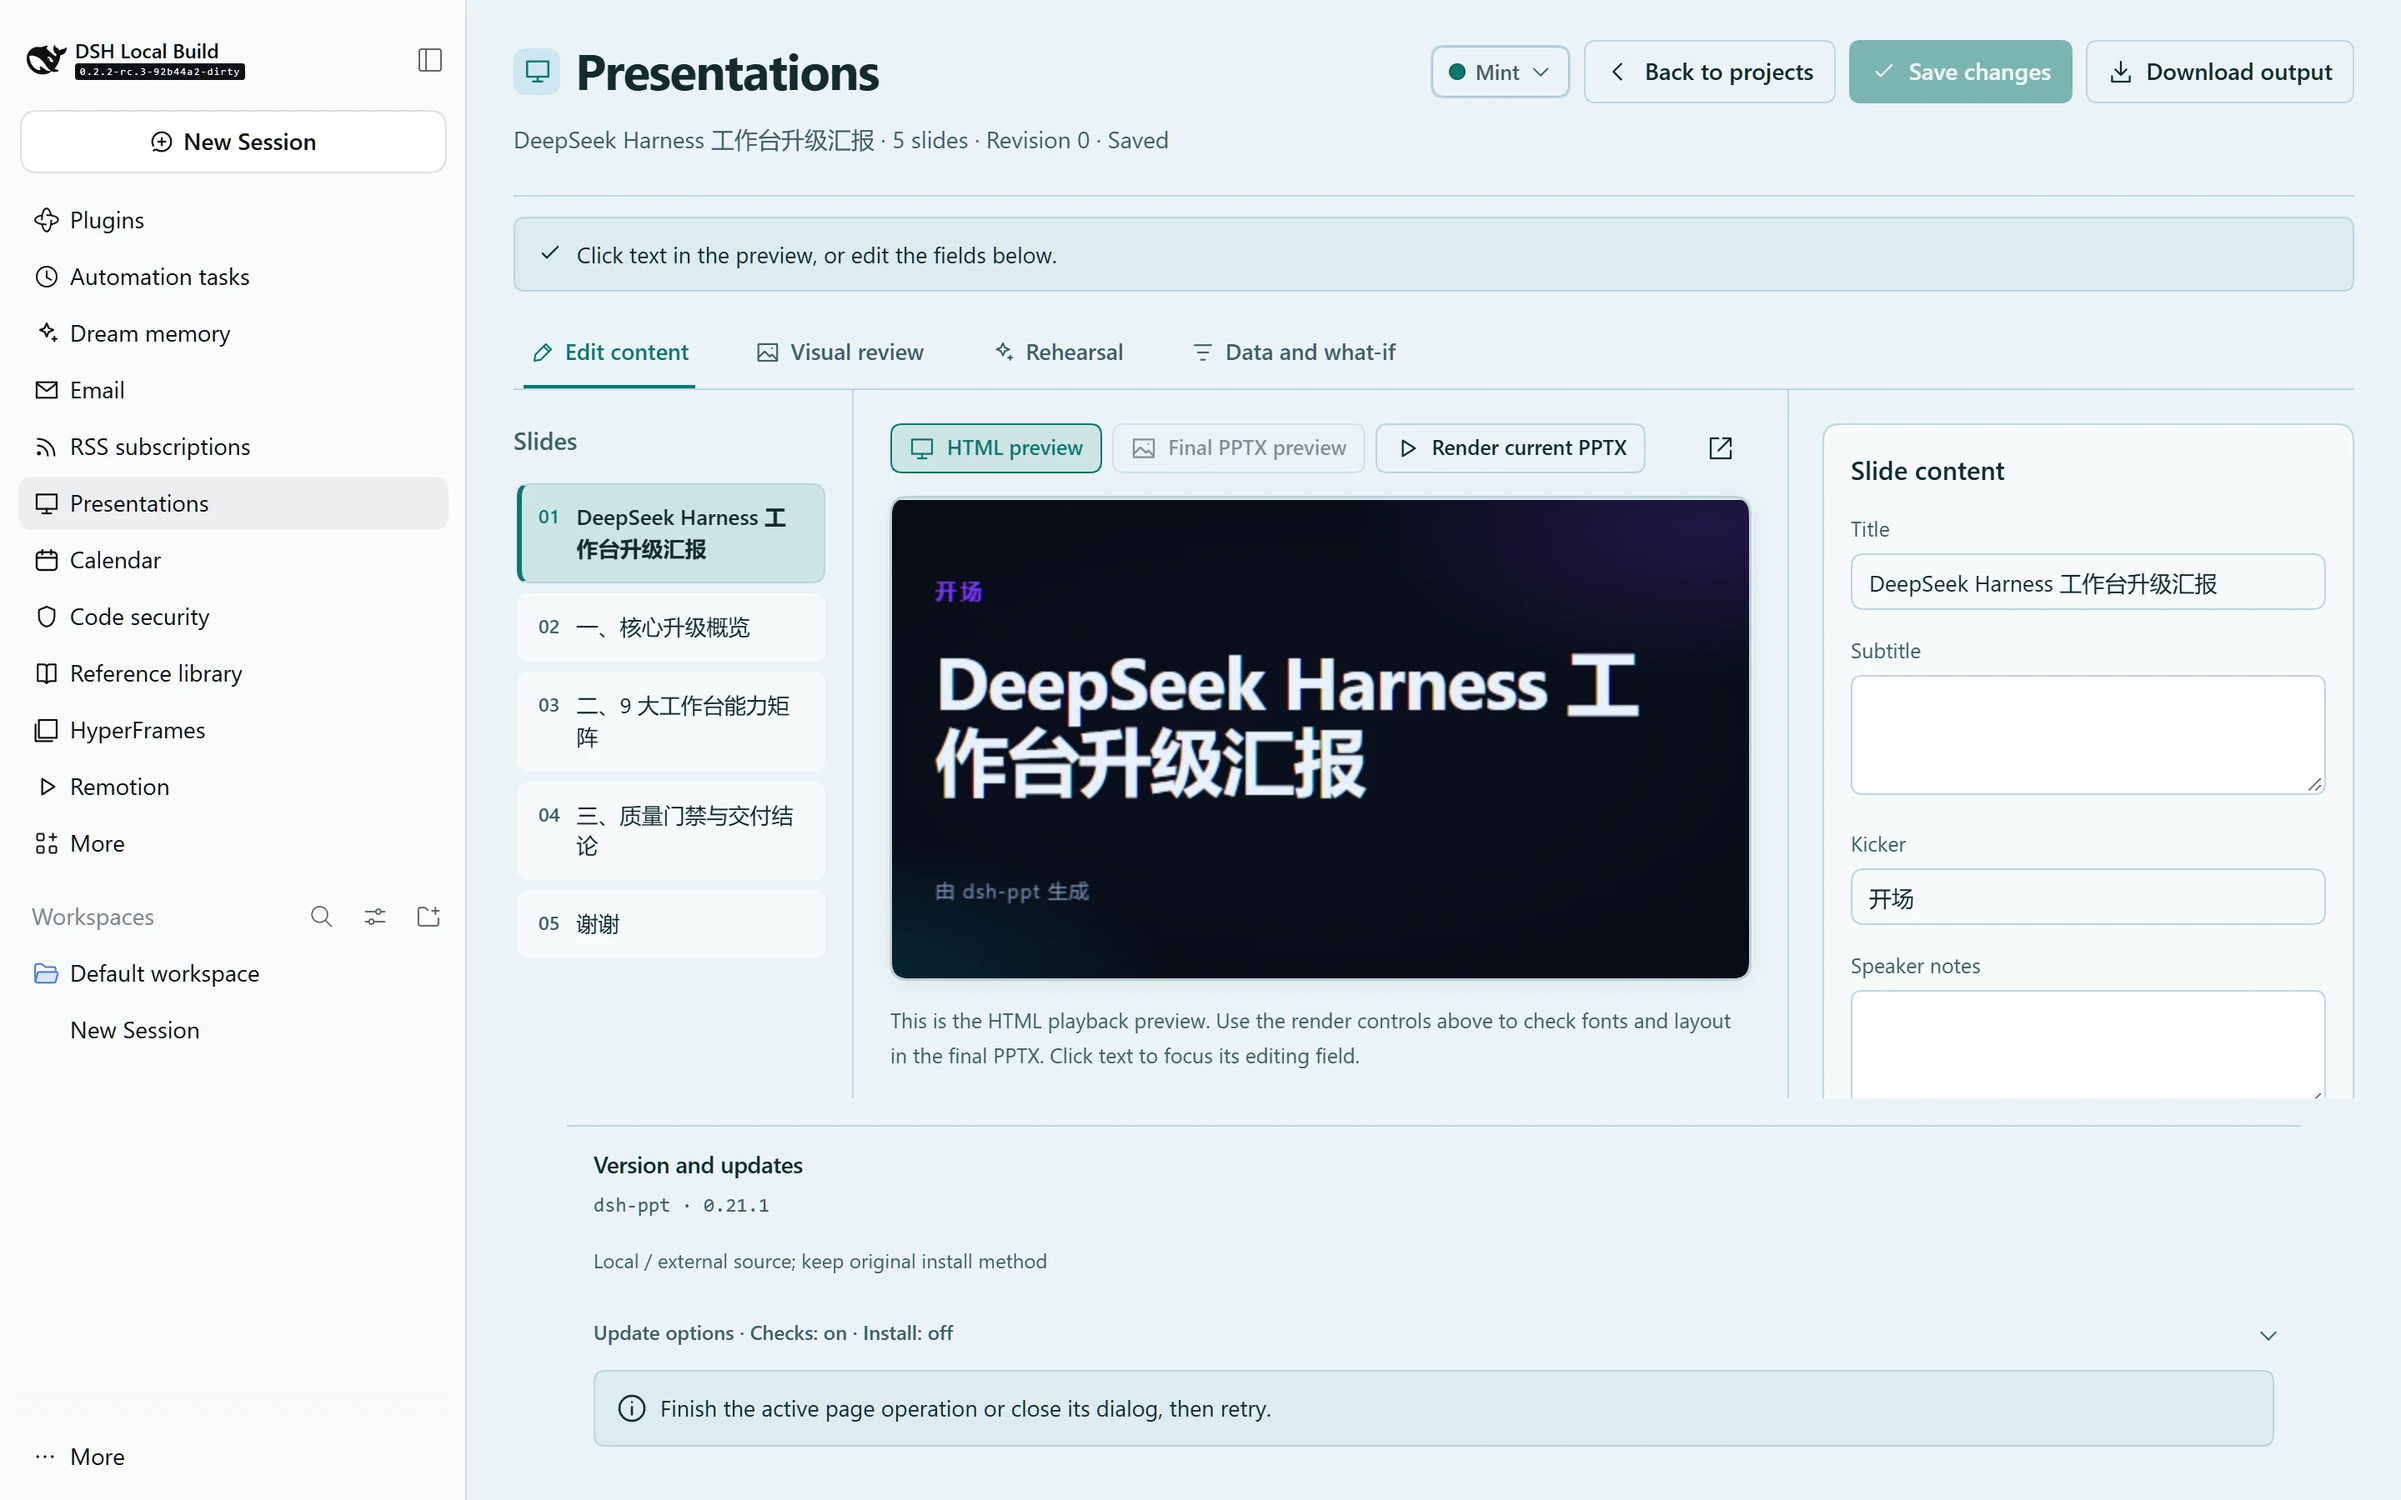
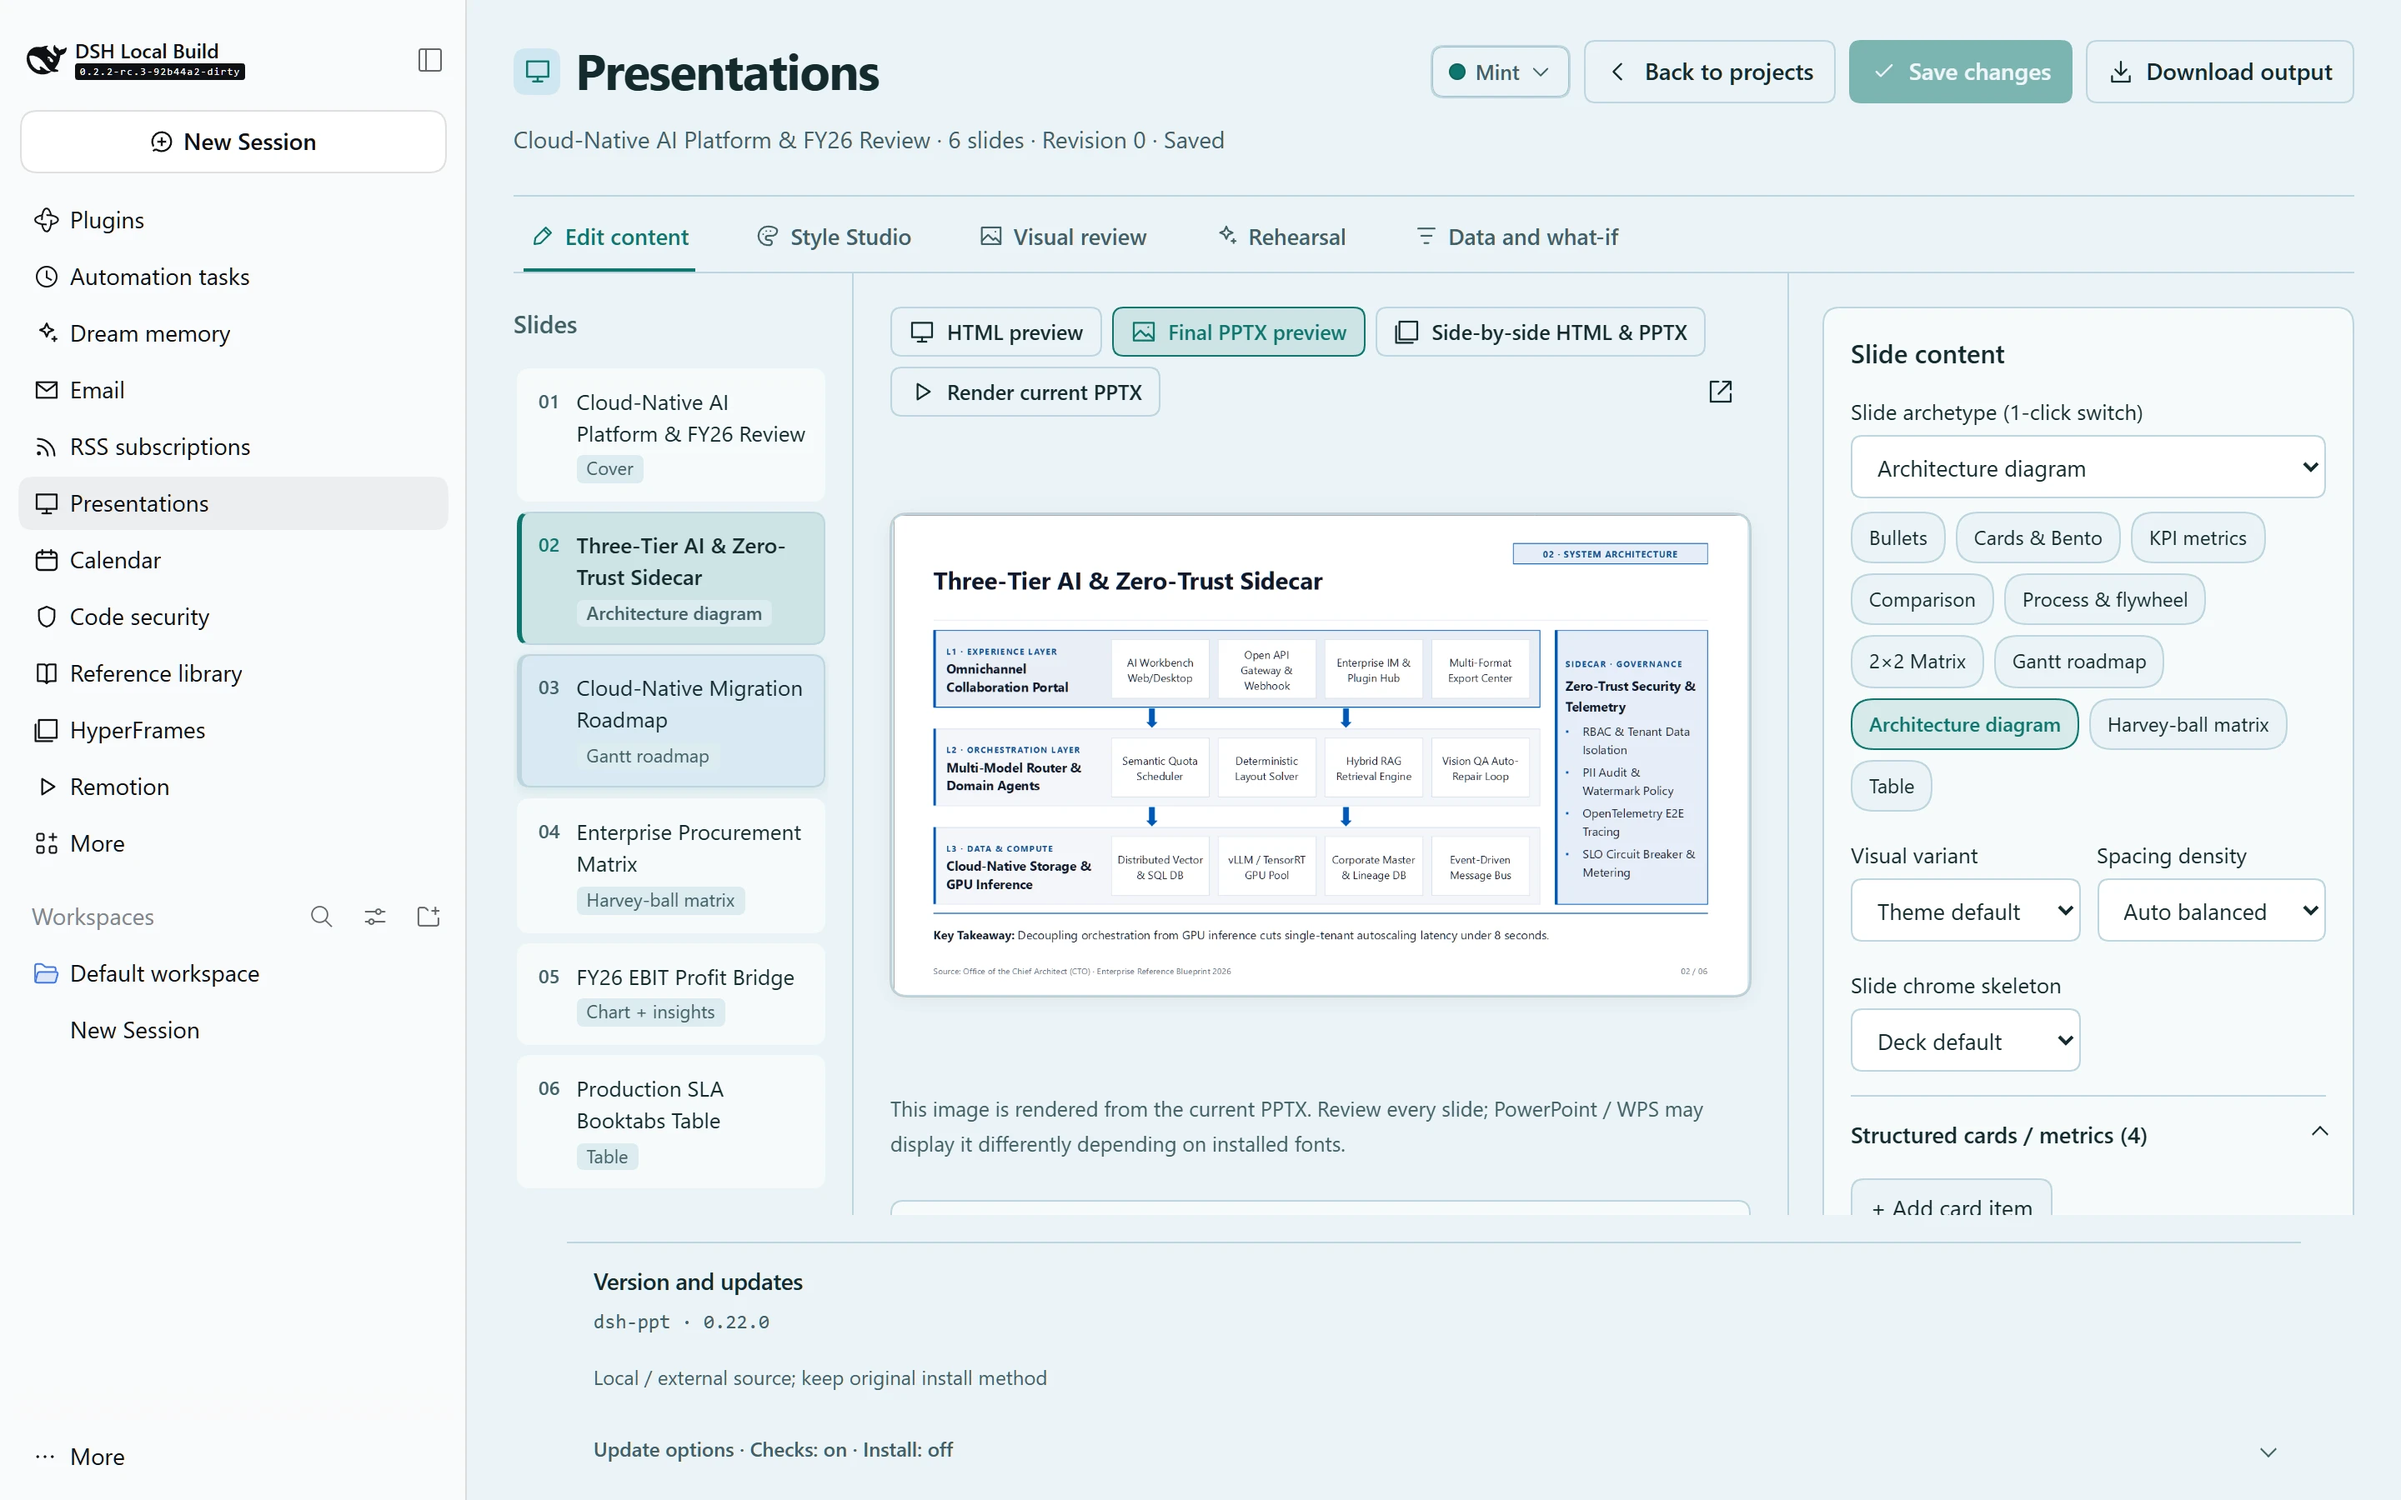
docs: refresh 0.22.0 6-style showcase gallery and Workbench v0.22 screenshots

diff --git a/README.en.md b/README.en.md
@@ -24,27 +24,37 @@
 
 ## Style previews
 
-Rendered from PPTX files made with dsh-ppt. Select an image to enlarge it.
+Rendered from native editable PPTX files made with dsh-ppt across distinct master chrome skeletons and domain diagrams. Select an image to enlarge it.
 
 <table>
 <tr>
-  <th>Editorial forest cover</th>
-  <th>Framed photo & takeaway</th>
-  <th>Focal-highlight chart</th>
+  <th>Layered Architecture + Sidecar</th>
+  <th>Multi-Quarter PMO Gantt</th>
+  <th>Phase-III Clinical Booktabs</th>
 </tr>
 <tr>
-  <td width="33%"><a href="https://raw.githubusercontent.com/STARDUSTLC666/dsh-ppt/master/assets/gallery/editorial-en.webp"><img src="https://raw.githubusercontent.com/STARDUSTLC666/dsh-ppt/master/assets/gallery/editorial-en.webp" alt="Editorial forest warm-ivory cover with a deep-green accent rule: Turning the Corner Library into a Sunlit Neighborhood Living Room" width="100%"></a></td>
-  <td width="33%"><a href="https://raw.githubusercontent.com/STARDUSTLC666/dsh-ppt/master/assets/gallery/reading-corner-en.webp"><img src="https://raw.githubusercontent.com/STARDUSTLC666/dsh-ppt/master/assets/gallery/reading-corner-en.webp" alt="Warm ivory split layout pairing structured highlights and a bottom takeaway bar with a sunlit oak reading table" width="100%"></a></td>
-  <td width="33%"><a href="https://raw.githubusercontent.com/STARDUSTLC666/dsh-ppt/master/assets/gallery/visits-chart-en.webp"><img src="https://raw.githubusercontent.com/STARDUSTLC666/dsh-ppt/master/assets/gallery/visits-chart-en.webp" alt="Publication-style column chart highlighting Week 4 peak attendance at 780 visits in deep forest green against muted baseline bars" width="100%"></a></td>
+  <td width="33%"><a href="https://raw.githubusercontent.com/STARDUSTLC666/dsh-ppt/master/assets/gallery/v22-arch-en.webp"><img src="https://raw.githubusercontent.com/STARDUSTLC666/dsh-ppt/master/assets/gallery/v22-arch-en.webp" alt="Three-tier decoupled AI platform architecture diagram with full-height zero-trust observability sidecar" width="100%"></a></td>
+  <td width="33%"><a href="https://raw.githubusercontent.com/STARDUSTLC666/dsh-ppt/master/assets/gallery/v22-gantt-en.webp"><img src="https://raw.githubusercontent.com/STARDUSTLC666/dsh-ppt/master/assets/gallery/v22-gantt-en.webp" alt="Four-quarter five-swimlane cloud-native migration Gantt roadmap with bar-end and standalone diamond milestones" width="100%"></a></td>
+  <td width="33%"><a href="https://raw.githubusercontent.com/STARDUSTLC666/dsh-ppt/master/assets/gallery/v22-clinical-en.webp"><img src="https://raw.githubusercontent.com/STARDUSTLC666/dsh-ppt/master/assets/gallery/v22-clinical-en.webp" alt="Medical Clean Beamer header band with NEJM-grade three-line booktabs clinical endpoint table and 3-zone footer" width="100%"></a></td>
+</tr>
+<tr>
+  <th>CFO EBIT Waterfall (FT Salmon)</th>
+  <th>Enterprise Harvey Matrix</th>
+  <th>Governance &amp; Org Tree (Gov Chrome)</th>
+</tr>
+<tr>
+  <td width="33%"><a href="https://raw.githubusercontent.com/STARDUSTLC666/dsh-ppt/master/assets/gallery/v22-finance-en.webp"><img src="https://raw.githubusercontent.com/STARDUSTLC666/dsh-ppt/master/assets/gallery/v22-finance-en.webp" alt="Financial FT Salmon theme pairing vector EBIT waterfall bridge with dense driver attribution cards" width="100%"></a></td>
+  <td width="33%"><a href="https://raw.githubusercontent.com/STARDUSTLC666/dsh-ppt/master/assets/gallery/v22-harvey-en.webp"><img src="https://raw.githubusercontent.com/STARDUSTLC666/dsh-ppt/master/assets/gallery/v22-harvey-en.webp" alt="6x4 enterprise procurement Harvey ball capability matrix with highlighted Ours column and native vector symbols" width="100%"></a></td>
+  <td width="33%"><a href="https://raw.githubusercontent.com/STARDUSTLC666/dsh-ppt/master/assets/gallery/v22-gov-org-en.webp"><img src="https://raw.githubusercontent.com/STARDUSTLC666/dsh-ppt/master/assets/gallery/v22-gov-org-en.webp" alt="Gov Ceremonial double-rule header with bracketed ribbon kicker and CDO four-center organizational tree" width="100%"></a></td>
 </tr>
 </table>
 
-The photo was generated for the example, and the chart uses sample data.
+All previews are LibreOffice-rendered from native OOXML `.pptx` outputs using sample metrics.
 
 <details>
 <summary>View the workbench</summary>
 
-![workbench example](https://raw.githubusercontent.com/STARDUSTLC666/dsh-ppt/master/docs/assets/intro/screen-en.webp)
+![workbench example](https://raw.githubusercontent.com/STARDUSTLC666/dsh-ppt/master/docs/assets/intro/screen-en.webp?v=0.22.0)
 
 Actual interface with controlled validation data; the PPTX image is a rendered sample when shown.
 

diff --git a/README.md b/README.md
@@ -24,27 +24,37 @@
 
 ## 风格预览
 
-这些画面来自插件生成的 PPTX。点击查看大图。
+这些画面来自插件生成的 PPTX（覆盖 6 套母版骨架与高密度专业图示）。点击查看大图。
 
 <table>
 <tr>
-  <th>森系社论封面</th>
-  <th>暖调精装图文页</th>
-  <th>焦点高亮数据页</th>
+  <th>系统架构评审（Architecture）</th>
+  <th>研发 PMO 跨季排期（Gantt）</th>
+  <th>医学临床三期试验（Beamer 三线表）</th>
 </tr>
 <tr>
-  <td width="33%"><a href="https://raw.githubusercontent.com/STARDUSTLC666/dsh-ppt/master/assets/gallery/editorial-zh.webp"><img src="https://raw.githubusercontent.com/STARDUSTLC666/dsh-ppt/master/assets/gallery/editorial-zh.webp" alt="森系社论暖白封面，墨绿竖线衬托标题：把街角图书馆变成邻里推门即入的周末精神客厅" width="100%"></a></td>
-  <td width="33%"><a href="https://raw.githubusercontent.com/STARDUSTLC666/dsh-ppt/master/assets/gallery/reading-corner-zh.webp"><img src="https://raw.githubusercontent.com/STARDUSTLC666/dsh-ppt/master/assets/gallery/reading-corner-zh.webp" alt="暖调精装左文右图页，结构化要点配阳光木桌阅读实景与底栏核心结论" width="100%"></a></td>
-  <td width="33%"><a href="https://raw.githubusercontent.com/STARDUSTLC666/dsh-ppt/master/assets/gallery/visits-chart-zh.webp"><img src="https://raw.githubusercontent.com/STARDUSTLC666/dsh-ppt/master/assets/gallery/visits-chart-zh.webp" alt="经济学人风格柱状图数据页，灰阶对照柱衬托第四周墨绿高亮峰值 780 人次与底栏洞察" width="100%"></a></td>
+  <td width="33%"><a href="https://raw.githubusercontent.com/STARDUSTLC666/dsh-ppt/master/assets/gallery/v22-arch-zh.webp"><img src="https://raw.githubusercontent.com/STARDUSTLC666/dsh-ppt/master/assets/gallery/v22-arch-zh.webp" alt="Consulting 直角母版三层解耦智能编排架构图与全域零信任安全侧翼" width="100%"></a></td>
+  <td width="33%"><a href="https://raw.githubusercontent.com/STARDUSTLC666/dsh-ppt/master/assets/gallery/v22-gantt-zh.webp"><img src="https://raw.githubusercontent.com/STARDUSTLC666/dsh-ppt/master/assets/gallery/v22-gantt-zh.webp" alt="四季度五泳道云原生重构甘特图，含条尾与独立菱形里程碑" width="100%"></a></td>
+  <td width="33%"><a href="https://raw.githubusercontent.com/STARDUSTLC666/dsh-ppt/master/assets/gallery/v22-clinical-zh.webp"><img src="https://raw.githubusercontent.com/STARDUSTLC666/dsh-ppt/master/assets/gallery/v22-clinical-zh.webp" alt="Medical Clean Beamer 通栏页眉配 NEJM 级临床终点三线表与三区学术底栏" width="100%"></a></td>
+</tr>
+<tr>
+  <th>CFO 财务利润桥与归因（FT Waterfall）</th>
+  <th>政企选型技术盲测矩阵（Harvey）</th>
+  <th>集团治理与双线政务章回（Org Tree）</th>
+</tr>
+<tr>
+  <td width="33%"><a href="https://raw.githubusercontent.com/STARDUSTLC666/dsh-ppt/master/assets/gallery/v22-finance-zh.webp"><img src="https://raw.githubusercontent.com/STARDUSTLC666/dsh-ppt/master/assets/gallery/v22-finance-zh.webp" alt="Financial FT 暖鲑底色配 EBIT 利润桥矢量瀑布图与财务动因拆解卡片" width="100%"></a></td>
+  <td width="33%"><a href="https://raw.githubusercontent.com/STARDUSTLC666/dsh-ppt/master/assets/gallery/v22-harvey-zh.webp"><img src="https://raw.githubusercontent.com/STARDUSTLC666/dsh-ppt/master/assets/gallery/v22-harvey-zh.webp" alt="6×4 政企技术盲测哈维球矩阵，含高亮主列与矢量饼形哈维球" width="100%"></a></td>
+  <td width="33%"><a href="https://raw.githubusercontent.com/STARDUSTLC666/dsh-ppt/master/assets/gallery/v22-gov-org-zh.webp"><img src="https://raw.githubusercontent.com/STARDUSTLC666/dsh-ppt/master/assets/gallery/v22-gov-org-zh.webp" alt="霁蓝政务双线页眉配【05 · 组织保障】绶带标签与 CDO 组织架构树" width="100%"></a></td>
 </tr>
 </table>
 
-图文页用了生成配图，图表用的是示例数据。
+以上画面均由原生可编辑 PPTX 经 LibreOffice 渲染生成，使用示例脱敏数据。
 
 <details>
 <summary>查看工作台界面</summary>
 
-![workbench example](https://raw.githubusercontent.com/STARDUSTLC666/dsh-ppt/master/docs/assets/intro/screen-zh.webp)
+![workbench example](https://raw.githubusercontent.com/STARDUSTLC666/dsh-ppt/master/docs/assets/intro/screen-zh.webp?v=0.22.0)
 
 图片来自验证环境的真实界面或示例 PPTX 渲染，使用示例数据。
 
